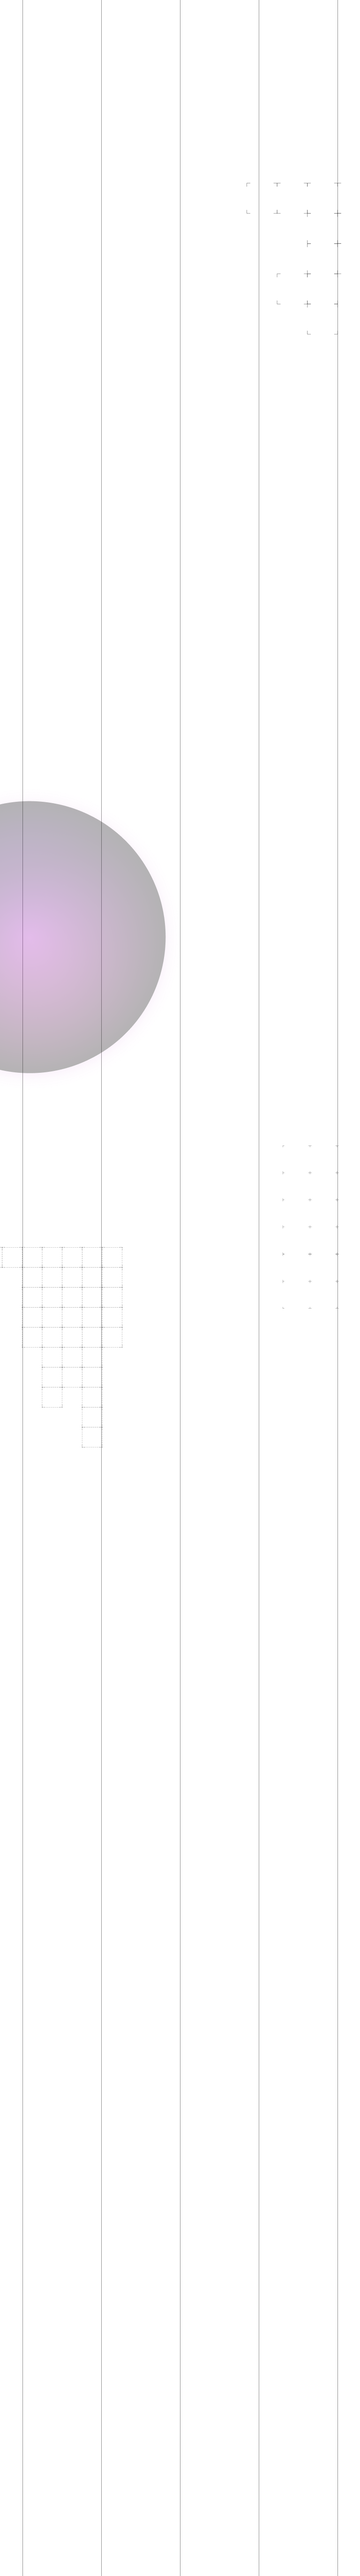
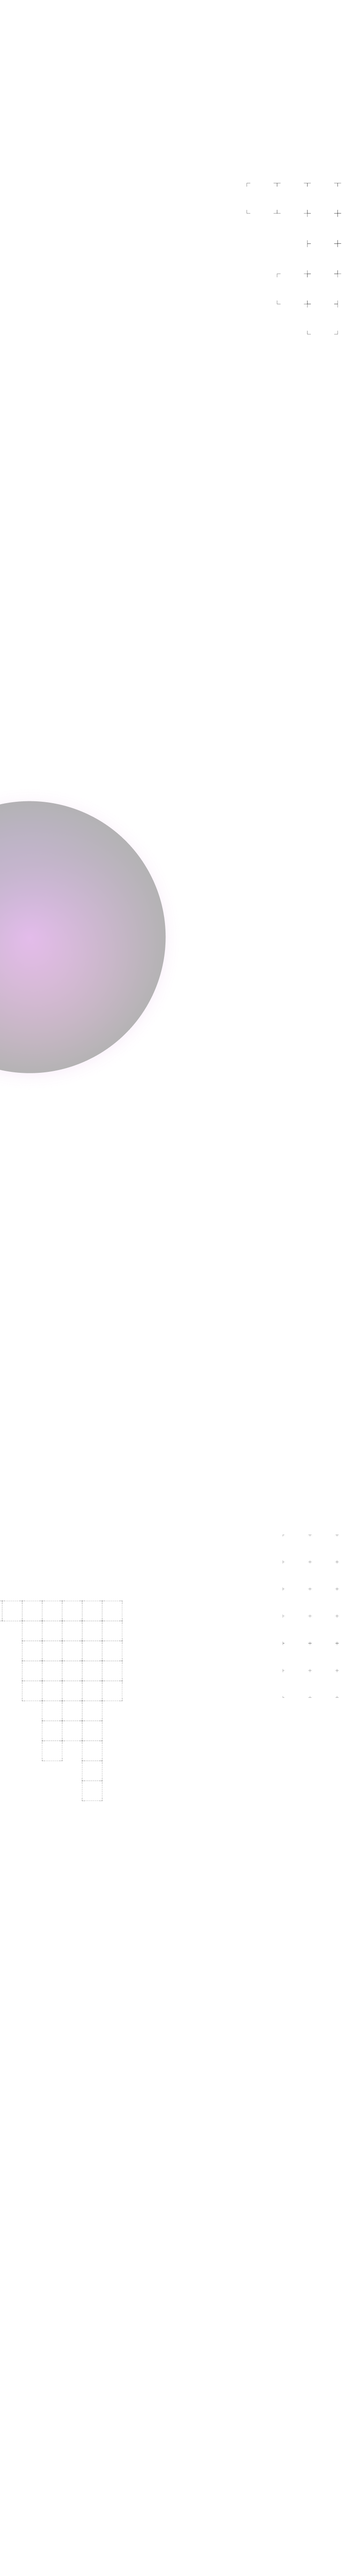
fix(ui-ux): background update (#580)
* fix(ui-ux): background update

* fix: remove generic background

* code cleanup

Changed region(s): [[0.2812, 0.6225, 0.3125, 0.6536], [0.2812, 0.498, 0.3125, 0.5291]]

diff --git a/src/layouts/Default.tsx b/src/layouts/Default.tsx
@@ -19,8 +19,8 @@ export function Default(props: PropsWithChildren<any>): JSX.Element | null {
   const [mounted, setMounted] = useState(false);
   const isHome = router.pathname === "/";
   const bgPicture = isHome
-    ? "bg-[url(/assets/img/background/background-320.png)] md:bg-[url(/assets/img/background/background-768.png)] lg:bg-[url(/assets/img/background/background-1440.png)] xl:bg-[url(/assets/img/background/background-1920.png)] 2xl:bg-[url(/assets/img/background/background-2560.png)]"
-    : "bg-fixed bg-[url(/assets/img/background/generic-background-320.png)] md:bg-[url(/assets/img/background/generic-background-1920.png)]";
+    ? "bg-[url(/assets/img/background/background-320.png)] sm:bg-[url(/assets/img/background/background-768.png)] md:bg-[url(/assets/img/background/background-1024.png)] lg:bg-[url(/assets/img/background/background-1440.png)] 2xl:bg-[url(/assets/img/background/background-1920.png)]"
+    : "";
 
   useEffect(() => {
     setMounted(true);
